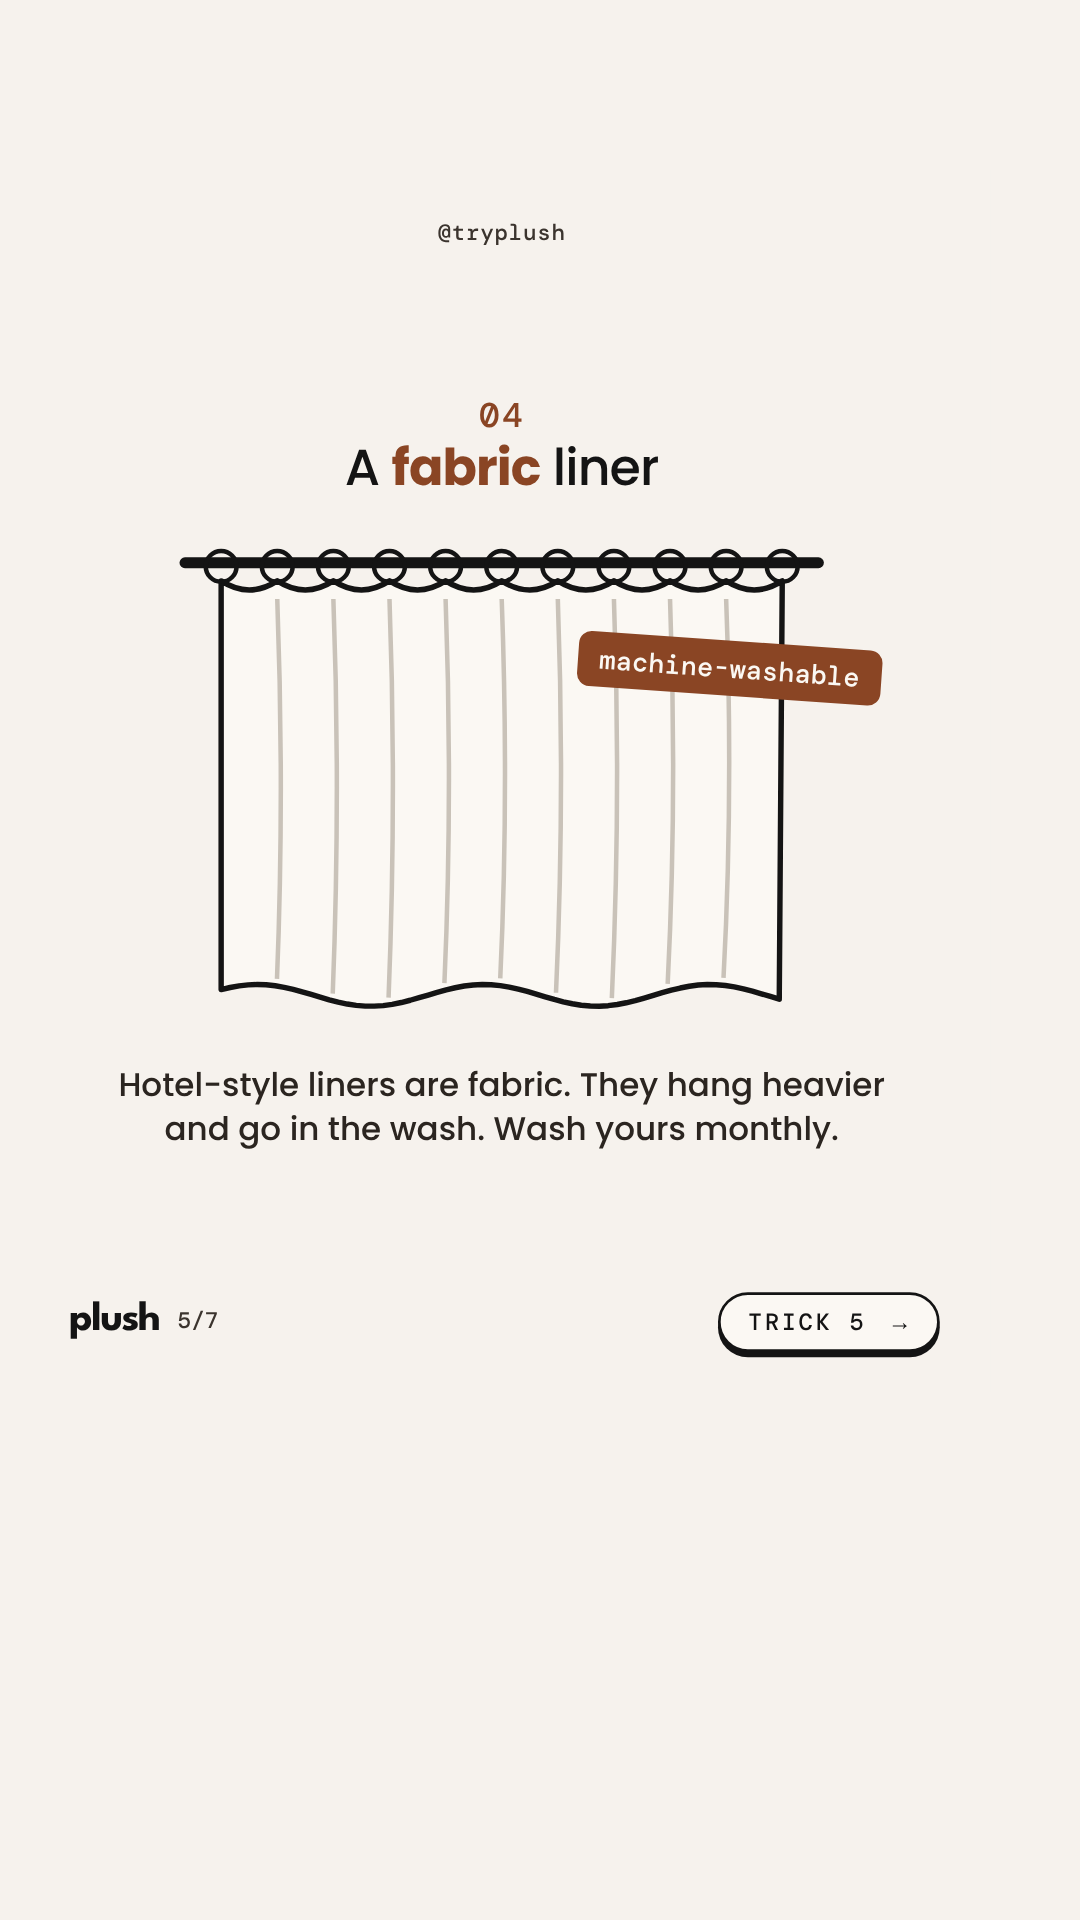
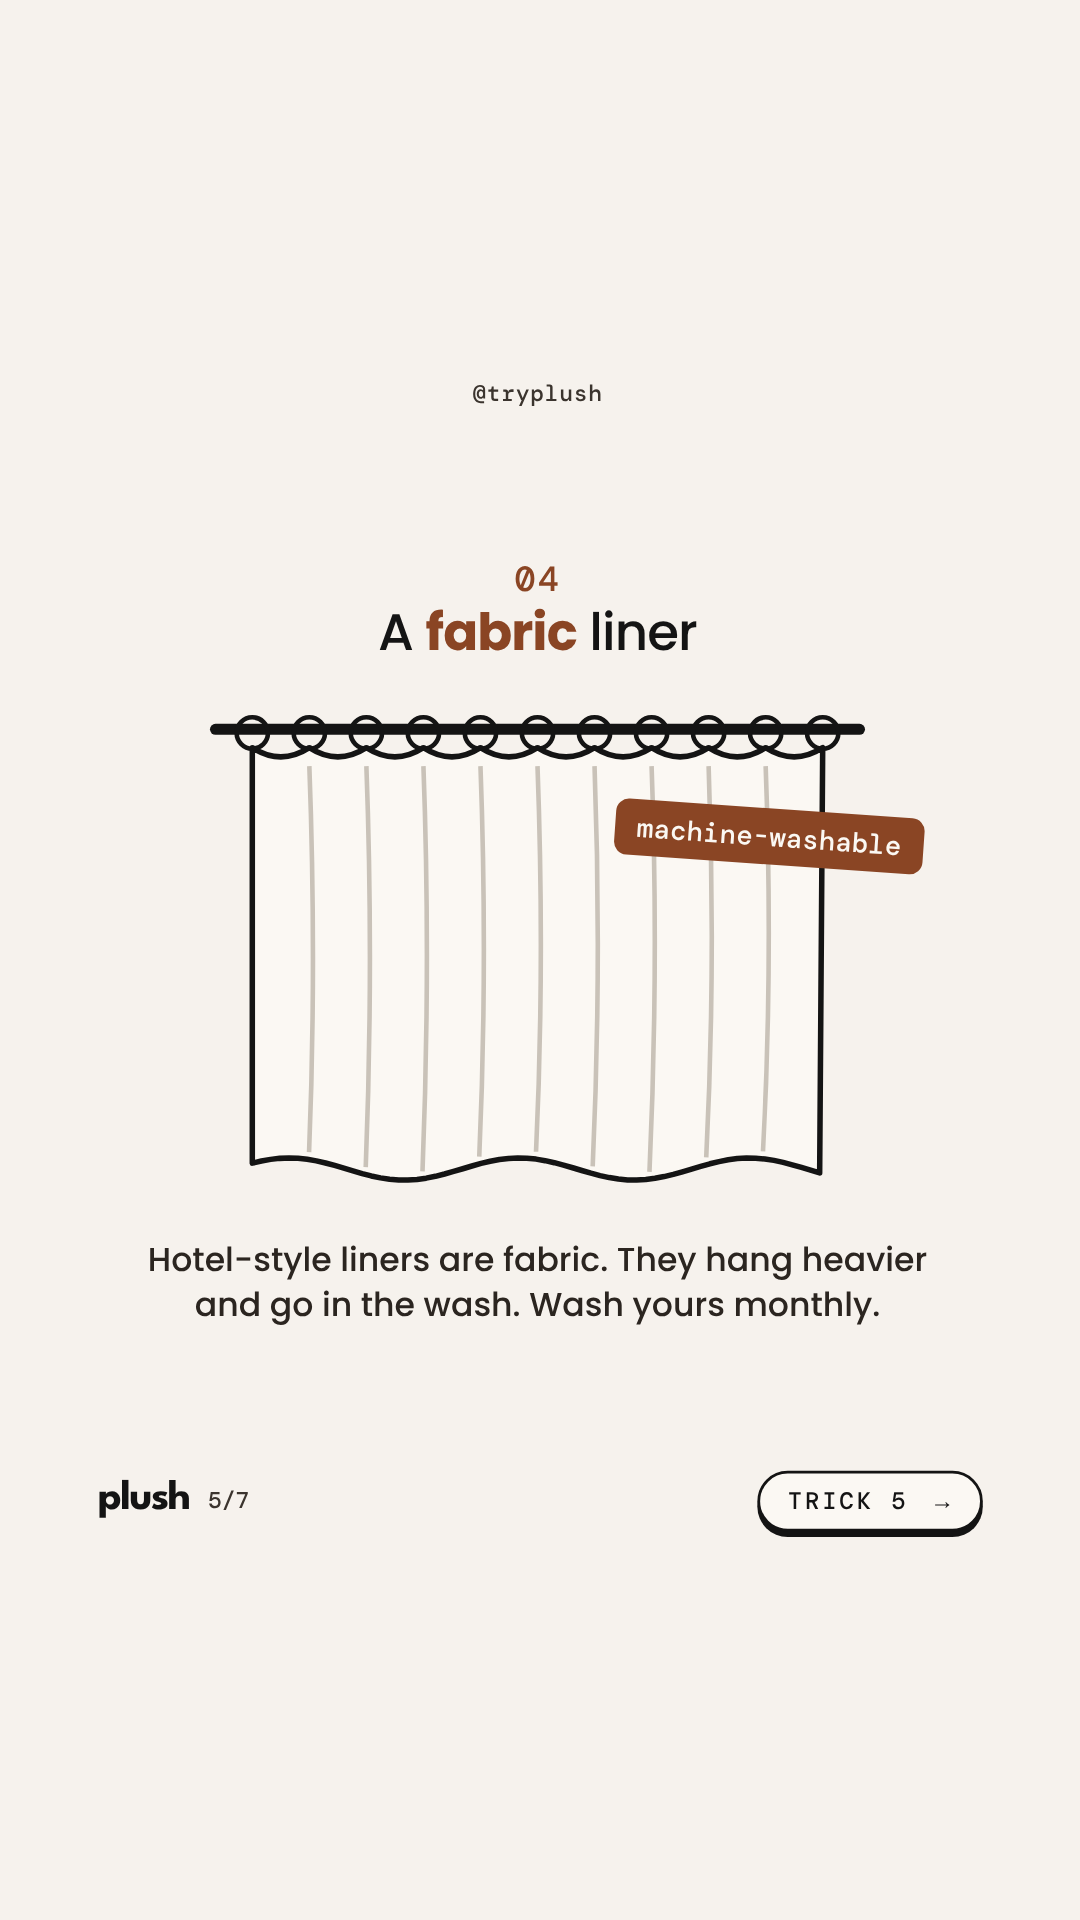
Carrousels C6-C10 9:16 : contenu centré
Claude-Session: https://claude.ai/code/session_01T6h1ryrsAgUQHXRjRXwYsy

diff --git a/plush-intel/visuels/test1/carrousels-anim/index.html b/plush-intel/visuels/test1/carrousels-anim/index.html
@@ -13,9 +13,9 @@
 html,body{width:1080px;height:1350px;overflow:hidden;background:var(--paper)}
 #o{position:relative;width:1080px;height:1350px;overflow:hidden;background:var(--paper)}
 #s{position:relative;width:1080px;height:1350px;overflow:hidden;background:var(--paper);color:var(--ink);font-family:Pop}
-/* 9:16 TikTok : la slide 4:5 réduite dans la zone sûre (hors boutons à droite et légende en bas) */
+/* 9:16 TikTok : la slide 4:5 à 92 %, centrée (marges égales haut/bas et gauche/droite) */
 .f916,.f916 body,.f916 #o{height:1920px}
-.f916 #s{transform-origin:0 0;transform:translate(13px,170px) scale(.905)}
+.f916 #s{transform-origin:0 0;transform:translate(40.7px,330px) scale(.92)}
 .ab{position:absolute}
 .handle{top:52px;left:0;width:100%;text-align:center;font:500 25px Mono;letter-spacing:.03em;color:#3b342e}
 .foot{left:62px;bottom:56px;display:flex;align-items:center;gap:20px}

diff --git a/plush-intel/visuels/test1/carrousels-anim/README.md b/plush-intel/visuels/test1/carrousels-anim/README.md
@@ -3,7 +3,7 @@
 Le format reprend celui des carrousels « éducatifs + data » (titre géant, graphique qui monte au swipe, « SAVE THIS » à la fin), avec les couleurs et les polices Plush. Tout est fait en code, sans IA et sans crédit. Le produit n'apparaît que sur de vraies photos détourées.
 
 - **Instagram** : `NN.mp4` (1080×1350, 4:5, 6-8 s), un fichier par slide, à poster dans l'ordre. À l'import, choisir le format 4:5.
-- **TikTok, mode photo** : `tiktok-9x16/CX-NN.png` (1080×1920). Le contenu est placé dans la zone sûre : sous les onglets, à gauche des boutons et au-dessus de la légende. Les `NN.png` en 4:5 restent dans chaque dossier.
+- **TikTok, mode photo** : `tiktok-9x16/CX-NN.png` (1080×1920). Le contenu est la slide 4:5 à 92 %, centrée (mêmes marges en haut et en bas, à gauche et à droite). Les `NN.png` en 4:5 restent dans chaque dossier.
 - **Refaire le rendu** : `node render.js` (ou `node render.js C8` pour un seul carrousel). Le contenu est dans `slides.js`, le moteur et les illustrations dans `lib.js`.
 
 | Carrousel | Slides | Accroche | Question de fin | Sources |
